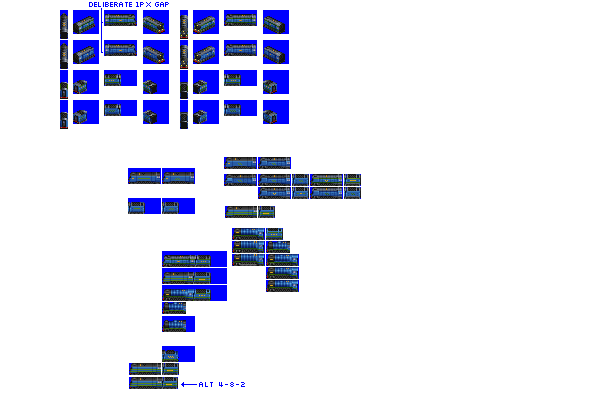
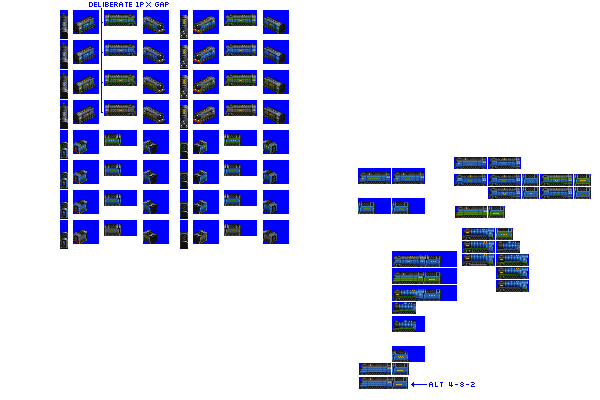
Change: additional livery for each of Arrow, Hawkinge, Thunderer

Changed region(s): [[0.09, 0.18, 0.72, 0.99], [0.6, 0.39, 0.99, 0.99]]

diff --git a/src/vehicles/pony/hawkinge.py b/src/vehicles/pony/hawkinge.py
@@ -18,7 +18,7 @@ def main(**kwargs):
         fixed_run_cost_points=120,  # give a bonus so this can be a genuine mixed-traffic engine
         gen=3,
         intro_year_offset=5,  # introduce later than gen epoch by design
-        liveries=["SURE_PACE", "STOCK_STANDARD"],
+        liveries=["SURE_PACE", "STOCK_STANDARD", "WORKHORSE", "FREIGHT_BLACK"],
         sprites_complete=True,
     )
 

diff --git a/src/vehicles/pony/thunderer.py b/src/vehicles/pony/thunderer.py
@@ -19,7 +19,7 @@ def main(**kwargs):
         fixed_run_cost_points=140,  # give a bonus so this can be a genuine mixed-traffic engine
         gen=2,
         intro_year_offset=10,  # introduce later than gen epoch by design
-        liveries=["STOCK_STANDARD"],
+        liveries=["STOCK_STANDARD", "FREIGHT_BLACK"],
         sprites_complete=True,
     )
 

diff --git a/src/vehicles/pony/arrow.py b/src/vehicles/pony/arrow.py
@@ -18,7 +18,7 @@ def main(**kwargs):
         gen=3,
         intro_year_offset=4,  # introduce later than gen epoch by design
         fixed_run_cost_points=130,  # give a small bonus to bring closer to Strongbow cost
-        liveries=["BANGER_BLUE"],
+        liveries=["BANGER_BLUE", "FREIGHT_BLACK"],
         sprites_complete=True,
     )
 

diff --git a/bin/company_colour_remaps.py b/bin/company_colour_remaps.py
@@ -9,8 +9,10 @@ from polar_fox import graphics_units
 # requires a tmp dir to exist, which should be gitignored
 # set the filename
 input_filenames = [
-    "dryth",
-    "flindermouse",
+    "arrow",
+    "hawkinge",
+    "streamer",
+    "thunderer",
 ]
 
 CC1 = 198
